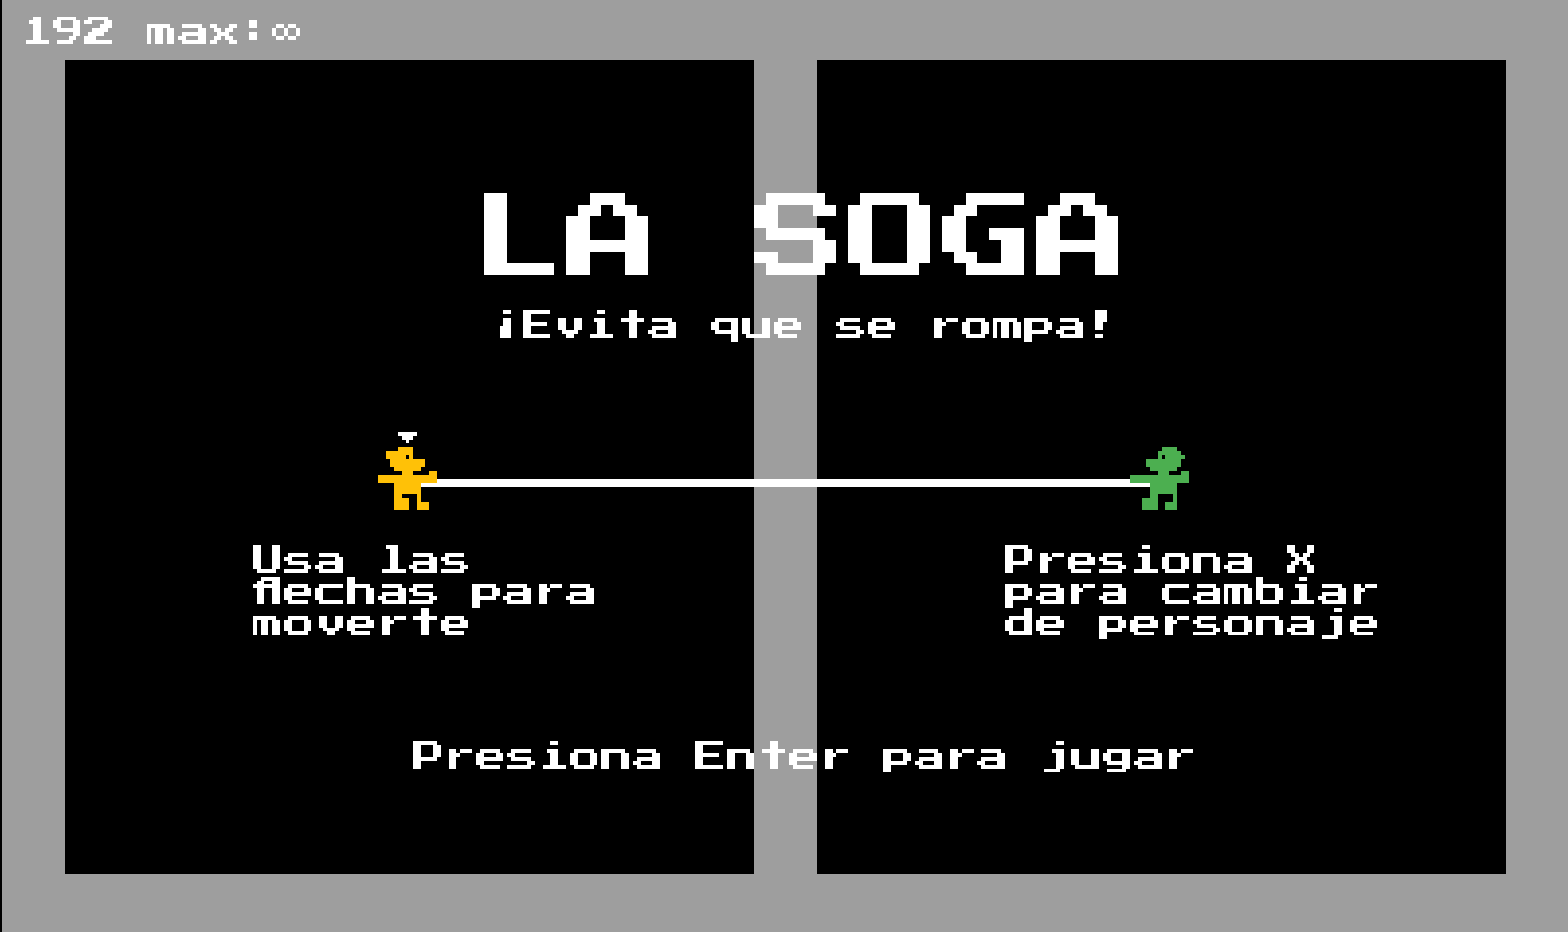
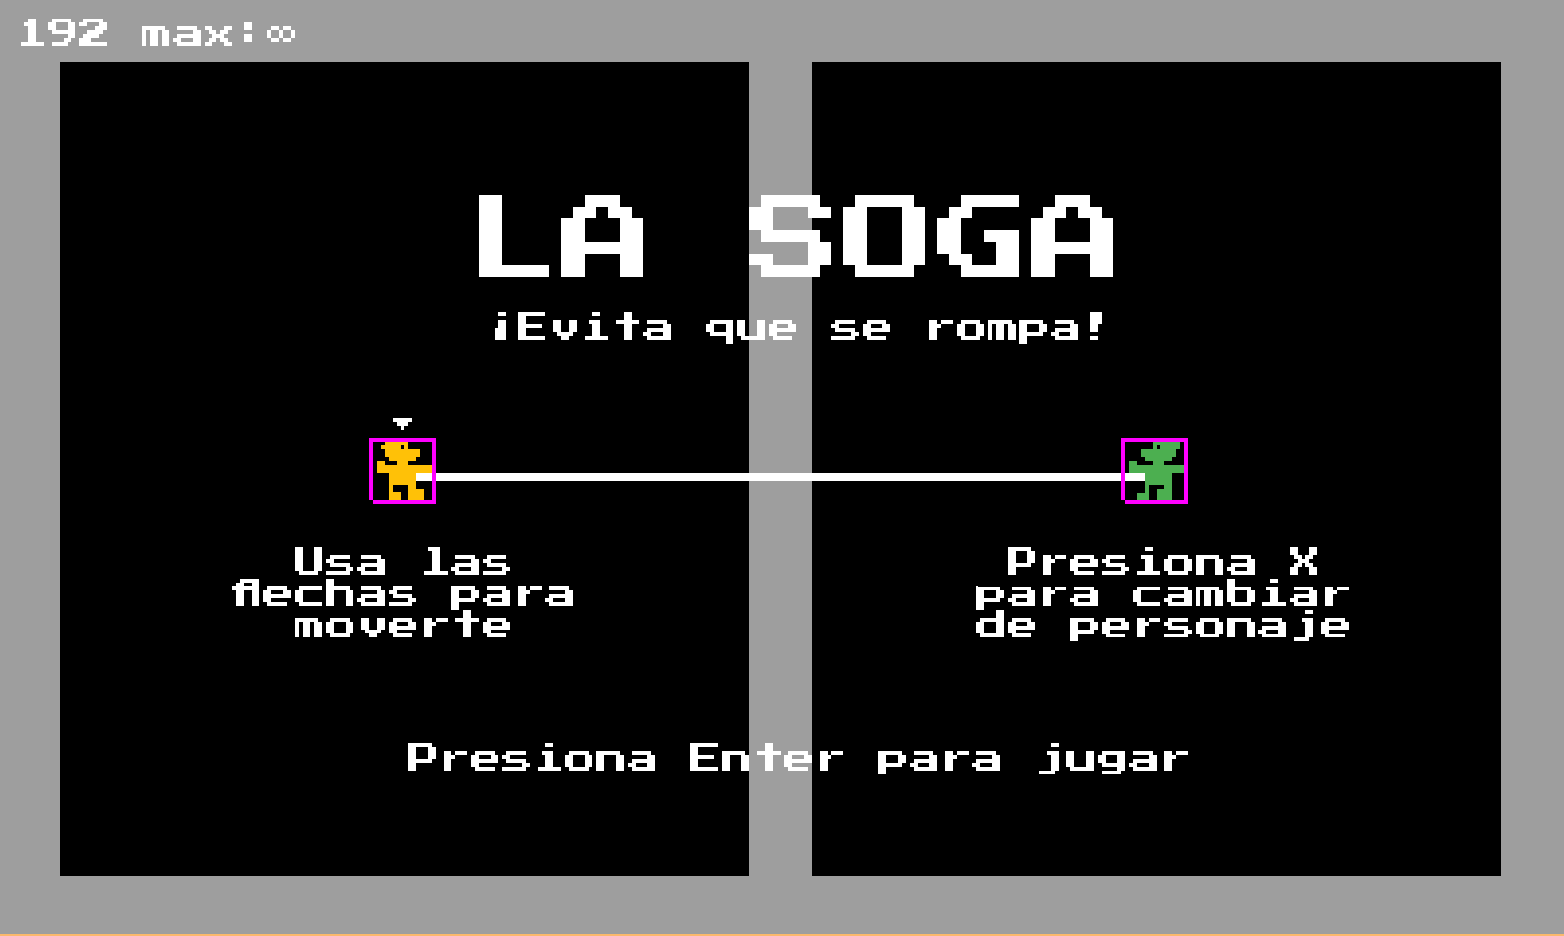
creando niveles 3-4
Former-commit-id: 0195a9cd664ed9b2197aedd80885fed40b1c59e2

diff --git a/scripts/menu.js b/scripts/menu.js
@@ -19,8 +19,8 @@ class Menu extends Phaser.Scene {
         layer.setCollisionByProperty({collides: true});
         this.line = this.add.line(65, 0);
         this.line.setStrokeStyle(1, 0xffffff);
-        this.player1 = this.physics.add.sprite(6*16 + 8, 7*16 + 8, 'player1');
-        this.player2 = this.physics.add.sprite(18*16 + 8, 7*16 + 8, 'player2');
+        this.player1 = this.physics.add.sprite(6*16 + 8, 7*16 + 5.5, 'player1');
+        this.player2 = this.physics.add.sprite(18*16 + 8, 7*16 + 5.5, 'player2');
         this.anims.create({
             key: 'anim_player1',
             frames: this.anims.generateFrameNumbers('player1'),
@@ -63,8 +63,10 @@ class Menu extends Phaser.Scene {
         this.text = this.add.text(5, 5, '', {fontFamily: 'pixel', fontSize: 8});
         this.add.text(120, 50, 'LA SOGA', {fontFamily: 'pixel', fontSize: 24});
         this.add.text(125, 80, '¡Evita que se rompa!', {fontFamily: 'pixel', fontSize: 8});
-        this.add.text(64, 140, 'Usa las\nflechas para\nmoverte', {fontFamily: 'pixel', fontSize: 8});
-        this.add.text(256, 140, 'Presiona X\npara cambiar\nde personaje', {fontFamily: 'pixel', fontSize: 8});
+        this.add.text(60, 140, 'Usa las\nflechas para\nmoverte',
+            {fontFamily: 'pixel', fontSize: 8, align: 'center'});
+        this.add.text(250, 140, 'Presiona X\npara cambiar\nde personaje',
+            {fontFamily: 'pixel', fontSize: 8, align: 'center'});
         this.add.text(105, 190, 'Presiona Enter para jugar', {fontFamily: 'pixel', fontSize: 8});
     }
 

diff --git a/scripts/level.js b/scripts/level.js
@@ -60,8 +60,8 @@ class Level extends Phaser.Scene {
         // player
         this.line = this.add.line(65, 0);
         this.line.setStrokeStyle(1, 0xffffff);
-        this.player1 = this.physics.add.sprite(6*16 + 8, 7*16 + 5, 'player1');
-        this.player2 = this.physics.add.sprite(18*16 + 8, 7*16 + 5, 'player2');
+        this.player1 = this.physics.add.sprite(6*16 + 8, 7*16 + 5.5, 'player1');
+        this.player2 = this.physics.add.sprite(18*16 + 8, 7*16 + 5.5, 'player2');
         this.anims.create({
             key: 'anim_player1',
             frames: this.anims.generateFrameNumbers('player1'),
@@ -181,7 +181,7 @@ class Level extends Phaser.Scene {
         this.line.setTo(this.player1.body.x + 8, this.player1.body.y + 10,
             this.player2.body.x + 8, this.player2.body.y + 10);
         let d = this.distance();
-        if (d > rope + 60) {
+        if (d > rope + diff_rope) {
             this.scene.start('level');
         } else if (d > rope) {
             this.line.setStrokeStyle(1, 0xff0000);
@@ -192,6 +192,6 @@ class Level extends Phaser.Scene {
             if (this.warning.text !== '')
                 this.warning.text = '';
         }
-        this.text.setText(Math.round(d).toString() + ' max:' + (rope + 60).toString());
+        this.text.setText(Math.round(d).toString() + ' max:' + (rope + diff_rope).toString());
     }
 }

diff --git a/scripts/config.js b/scripts/config.js
@@ -5,15 +5,16 @@ function loadFont(name, url) {
         .catch((error) => error);
 }
 loadFont('pixel', '/assets/pixel.ttf');
-let rope = 210;
-let add_rope = 30;
-let level = 0;
-const vel = 40;
+let rope = 200;
+const diff_rope = 40;
+let add_rope = 20;
+let level = 3;
+const vel = 50;
 const buttons = [
     [3,12,15,2],
-    [2,2,21,2],
-    [2,2,21,2],
-    [2,2,21,2],
+    [4,11,22,7],
+    [2,12,22,5],
+    [3,3,22,2],
     [2,2,21,2],
     [2,2,21,2],
     [2,2,21,2]
@@ -21,8 +22,8 @@ const buttons = [
 const teleports = [
     null,
     null,
-    [1,2,3,4,1],
-    [1,2,3,4,2],
+    [3,3,6,11,1],
+    [20,12,14,2,2],
     [1,2,3,4,1],
     [1,2,3,4,2],
     [2,2,21,2,1]
@@ -38,9 +39,9 @@ const helixs = [
 ];
 const ropes = [
     null,
-    [1,1],
+    [2,2],
     null,
-    [1,1],
+    [22,12],
     null,
     [1,1],
     null,

diff --git a/scripts/main.js b/scripts/main.js
@@ -11,7 +11,7 @@ const config = {
     physics: {
         default: "arcade",
         arcade: {
-            debug: false
+            debug: true
         }
     },
     fps: {
